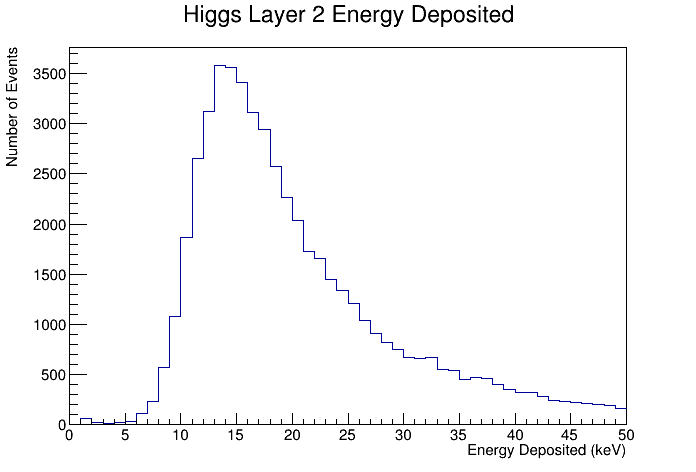
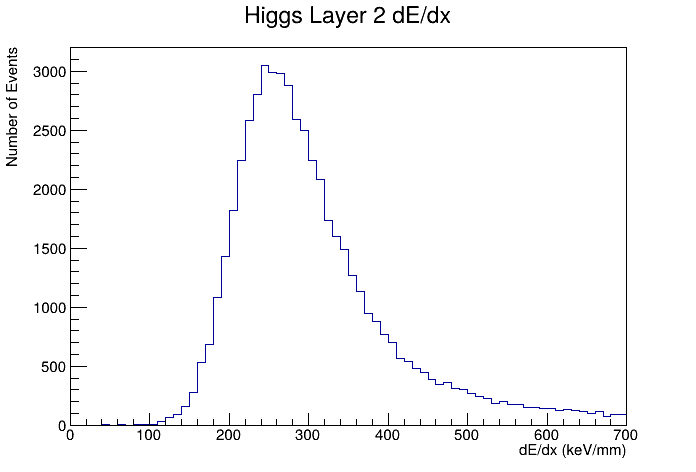
remade higgs edep plots

diff --git a/python/occupancy.py b/python/occupancy.py
@@ -40,16 +40,18 @@ for i in range(100):
     print(f"starting event {i}")
     event = events[i]
     for hit in event.get("VTXIBCollection"):
+        if hit.isProducedBySecondary():
+            continue
         if radius(hit) == 14:
             cells[hit.getCellID()][i] += 1
 
-pix_per_mod = 430080*90
-total_hits = [sum(hits[i] for hits in cells.values()) for i in range(100)]
-# module_hit_averages = [np.mean(cells[mod]) for mod in cells.keys()]
-# max_hits = max(module_hit_averages)
-# avg_hits = np.mean(module_hit_averages)
-max_hits = max(total_hits)
-avg_hits = np.mean(total_hits)
+pix_per_mod = 430080
+# total_hits = [sum(hits[i] for hits in cells.values()) for i in range(100)]
+module_hit_averages = [np.mean(cells[mod]) for mod in cells.keys()]
+max_hits = max(module_hit_averages)
+avg_hits = np.mean(module_hit_averages)
+# max_hits = max(total_hits)
+# avg_hits = np.mean(total_hits)
 
 print(f"Maximum occupancy: {max_hits*15/pix_per_mod}")
 print(f"Average occupancy: {avg_hits*15/pix_per_mod}")

diff --git a/python/higgs_edep.py b/python/higgs_edep.py
@@ -57,11 +57,12 @@ for i in range(1000):
         hits[radius(r)].append((i,j))
 
 for layer_index in range(3):
-    hist = ROOT.TH1F("edep", f"Higgs Layer {layer_index + 1} Energy Deposited", 50, 0, 50)
+    hist = ROOT.TH1F("edep", f"Higgs Layer {layer_index + 1} dE/dx", 70, 0, 700)
     for event, hit in hits[radii[layer_index]]:
         edep = edep_data[event][hit] * 1000000
-        hist.Fill(edep)
-    hist.GetXaxis().SetTitle("Energy Deposited (keV)")
+        path_length = pathlength_data[event][hit]
+        hist.Fill(edep / path_length)
+    hist.GetXaxis().SetTitle("dE/dx (keV/mm)")
     hist.GetYaxis().SetTitle("Number of Events")
     hist.SetStats(0)
     canvas = ROOT.TCanvas("edep", f"Layer {layer_index + 1} Energy Deposited")
